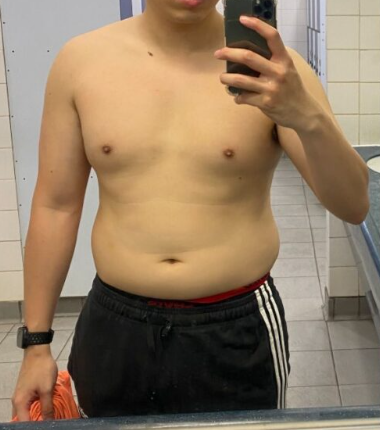
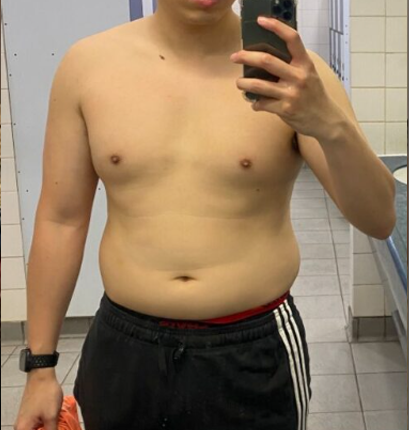
fix the slider zoom

diff --git a/app/components/StepFive.js b/app/components/StepFive.js
@@ -92,8 +92,6 @@ const StepFive = ({ nextStep, prevStep, handleNotEligible, handleChange, values 
             <span className="slider-text after-text"><img src="/assets/arrow.svg" alt=""/> AFTER</span>
           </div>
           </div>
-          
-          
         </div>
         <div className="slider-navigation slider-navigation-sm">
           <button id="prev" className="navButton slider-prev" onClick={prevSlide}>

diff --git a/app/styles/image-slider.css b/app/styles/image-slider.css
@@ -40,6 +40,7 @@ main {
 .image-before {
   position: absolute;
   inset: 0;
+  object-fit: cover;
   width: var(--position);
 }
 
